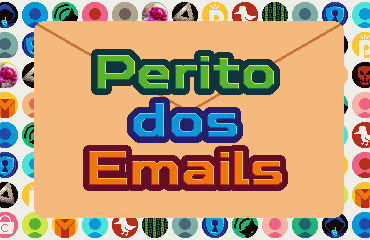
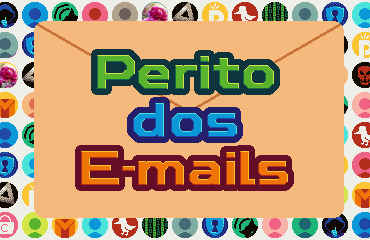
email corrigido para e-mail

Changed region(s): [[0.2973, 0.5833, 0.8027, 0.8167], [0.1784, 0.5833, 0.2676, 0.8167]]

diff --git a/src/pages/EmailGame/Scenes/EmailScene/EmailList.ts b/src/pages/EmailGame/Scenes/EmailScene/EmailList.ts
@@ -1,6 +1,6 @@
 import { MALICIOUS, SAFE, SPAM, type EmailData } from "./EmailData";
 
-// Lista de endereços de email "oficiais"
+// Lista de endereços de e-mail "oficiais"
 export const addresses = {
   grandma: "aparecida48@mail.com",
   cibernauta: "cibernauta@mail.com",
@@ -55,7 +55,7 @@ const pictures = {
 // Lista de export de todos os emails do jogo
 
 export const mailsafeSubscription: EmailData = {
-  text: `Olá SeuNome,\nEstamos confirmando sua inscrição no workshop "Boas Práticas de Segurança Digital", que ocorrerá no dia 12/12 às 14h.\nVocê pode acessar todos os materiais e informações no link do nosso site oficial:\n\nhttps://empresa-segura.com.br/workshop\n\nSe tiver qualquer dúvida, responda por este mesmo email.\n\nAtenciosamente,\nEquipe Empresa Segura`,
+  text: `Olá SeuNome,\nEstamos confirmando sua inscrição no workshop "Boas Práticas de Segurança Digital", que ocorrerá no dia 12/12 às 14h.\nVocê pode acessar todos os materiais e informações no link do nosso site oficial:\n\nhttps://empresa-segura.com.br/workshop\n\nSe tiver qualquer dúvida, responda por este mesmo e-mail.\n\nAtenciosamente,\nEquipe Empresa Segura`,
   address: "empresasegura@mail.zig",
   class: SAFE,
   name: "Emprura",
@@ -65,7 +65,7 @@ export const mailsafeSubscription: EmailData = {
 // Controls Level
 
 export const mailTutorialControls: EmailData = {
-  text: `Olá! E bem vind@ ao treinamento de identificação de emails da equipe Cibernauta.\n\nDaqui em diante, você irá aprender como identificar emails seguros, maliciosos e spam em todas as suas formas.\n\nMas antes de começar, vamos dar uma olhada nos controles que temos aqui.\n\nNa parte lateral da direita, mais ou menos por aqui -->\nTemos a barra de scroll, se clicar nela ou arrasta-la pode mover o conteúdo do email para cima e para baixo.\n\nNão ache estranho se ela às vezes não estiver presente, ela só aparece quando um email é comprido o suficiente para precisar dela.\n\nAlém dela também temos seu painel de botões, para abrir ele basta clicar no botão com a seta no canto esquerdo.\n\nNo painel você tem acesso a o que é preciso para classificar um email.\nPor enquanto só temos os botões de SEGURO (verde e redondo) e MALICIOSO (quadrado vermelho).\n\nPara prosseguir classifique esse email como SEGURO e vamos seguir em frente.`,
+  text: `Olá! E bem vind@ ao treinamento de identificação de emails da equipe Cibernauta.\n\nDaqui em diante, você irá aprender como identificar emails seguros, maliciosos e spam em todas as suas formas.\n\nMas antes de começar, vamos dar uma olhada nos controles que temos aqui.\n\nNa parte lateral da direita, mais ou menos por aqui -->\nTemos a barra de scroll, se clicar nela ou arrasta-la pode mover o conteúdo do e-mail para cima e para baixo.\n\nNão ache estranho se ela às vezes não estiver presente, ela só aparece quando um e-mail é comprido o suficiente para precisar dela.\n\nAlém dela também temos seu painel de botões, para abrir ele basta clicar no botão com a seta no canto esquerdo.\n\nNo painel você tem acesso a o que é preciso para classificar um e-mail.\nPor enquanto só temos os botões de SEGURO (verde e redondo) e MALICIOSO (quadrado vermelho).\n\nPara prosseguir classifique esse e-mail como SEGURO e vamos seguir em frente.`,
   address: addresses.cibernauta,
   class: SAFE,
   name: names.cibernauta,
@@ -75,7 +75,7 @@ export const mailTutorialControls: EmailData = {
 // Classification
 
 export const mailTutorialClass: EmailData = {
-  text: `Agora que tem uma noção básica dos controles, vamos ao que interessa, emails.\n\nNesse próximo treino vamos ver uma série de emails e é o seu trabalho identificar se eles são SEGUROs ou MALICIOSOs.\n\nMas como fazer isso? Existem várias maneiras, mas por enquanto só para aquecer, vamos começar com algo básico.\n\nEmails de pessoas e empresas desconhecidas ou até suspeitas podem ser maliciosos. Se ver um email de alguém que for desconhecido ou suspeito, marque como MALICIOSO, se for de alguém que conhece como Cibernauta ou Mail, uma das empresas que fornece serviço de email, pode marcar como SEGURO.\n\nUma última coisa, no canto de cima, junto com o botão de pause, tem o cronômetro, esse é o tempo que você terá para classificar quantos emails conseguir.\n\nQuando o cronômetro chegar a 0 (ou não houver mais emails), você irá para o placar de pontos, onde pode ver quantos erros e acertos cometeu, e sua pontuação final.\n\nEle só começa a contar quando esse email for classificado e seguirá para o próximo, então assim que estiver pronto, marque esse como SEGURO e boa sorte!`,
+  text: `Agora que tem uma noção básica dos controles, vamos ao que interessa, emails.\n\nNesse próximo treino vamos ver uma série de emails e é o seu trabalho identificar se eles são SEGUROs ou MALICIOSOs.\n\nMas como fazer isso? Existem várias maneiras, mas por enquanto só para aquecer, vamos começar com algo básico.\n\nEmails de pessoas e empresas desconhecidas ou até suspeitas podem ser maliciosos. Se ver um e-mail de alguém que for desconhecido ou suspeito, marque como MALICIOSO, se for de alguém que conhece como Cibernauta ou Mail, uma das empresas que fornece serviço de e-mail, pode marcar como SEGURO.\n\nUma última coisa, no canto de cima, junto com o botão de pause, tem o cronômetro, esse é o tempo que você terá para classificar quantos emails conseguir.\n\nQuando o cronômetro chegar a 0 (ou não houver mais emails), você irá para o placar de pontos, onde pode ver quantos erros e acertos cometeu, e sua pontuação final.\n\nEle só começa a contar quando esse e-mail for classificado e seguirá para o próximo, então assim que estiver pronto, marque esse como SEGURO e boa sorte!`,
   address: addresses.cibernauta,
   class: SAFE,
   name: names.cibernauta,
@@ -91,7 +91,7 @@ export const mailClassMal1: EmailData = {
 };
 
 export const mailClassMal2: EmailData = {
-  text: `Olá,\n\nSeu computador está DESATUALIZADO e em risco crítico.\n\nNos envie seu endereço de email e sua senha antes que seja tarde demais.`,
+  text: `Olá,\n\nSeu computador está DESATUALIZADO e em risco crítico.\n\nNos envie seu endereço de e-mail e sua senha antes que seja tarde demais.`,
   address: "hackers@mail.com",
   class: MALICIOUS,
   name: "Não é Virus",
@@ -125,7 +125,7 @@ export const mailClassSafe2: EmailData = {
 // Elements
 
 export const mailTutorialElements: EmailData = {
-  text: `Agora que passamos por esse aquecimento vamos ver a parte mais crucial do treinamento. Selecionar elementos.\n\nTodo email é composto de elementos, como a foto no canto superior esquerdo, o endereço de onde veio esse email ou até o texto que você está lendo.\n\nAgora, além de classificar os emails, você também pode SELECIONAR seus elementos.\n\nQuando estiver com seu painel aberto, seu cursor do mouse vai virar uma seta em diagonal, isso quer dizer que está no modo de seleção.\n\nNo modo de seleção, qualquer elemento do email que você clicar será selecionado como uma ANOMALIA, ou seja, algo que indica que esse email não é SEGURO. Você pode selecionar mais do que um elemento ao mesmo tempo.\n\nPara essa próxima etapa, vamos começar a partir do princípio que qualquer email oferecendo algo de GRAÇA ou pedindo que você faça algo com URGÊNCIA como realizar um pagamento ou entrar em algum link, é malicioso.\n\nSe ver algo do tipo, marque aonde no texto que isso aparece e classifique como MALICIOSO. Se o texto tiver mais frases do tipo em outros lugares não tem problema, você só precisa selecionar uma delas que já conta.\n\nElementos que forem corretamente marcados como ANOMALIAS te darão pontos extras! Mas elementos selecionados incorretamente irão reduzir sua pontuação.\n\nPronto para seguir em frente?`,
+  text: `Agora que passamos por esse aquecimento vamos ver a parte mais crucial do treinamento. Selecionar elementos.\n\nTodo e-mail é composto de elementos, como a foto no canto superior esquerdo, o endereço de onde veio esse e-mail ou até o texto que você está lendo.\n\nAgora, além de classificar os emails, você também pode SELECIONAR seus elementos.\n\nQuando estiver com seu painel aberto, seu cursor do mouse vai virar uma seta em diagonal, isso quer dizer que está no modo de seleção.\n\nNo modo de seleção, qualquer elemento do e-mail que você clicar será selecionado como uma ANOMALIA, ou seja, algo que indica que esse e-mail não é SEGURO. Você pode selecionar mais do que um elemento ao mesmo tempo.\n\nPara essa próxima etapa, vamos começar a partir do princípio que qualquer e-mail oferecendo algo de GRAÇA ou pedindo que você faça algo com URGÊNCIA como realizar um pagamento ou entrar em algum link, é malicioso.\n\nSe ver algo do tipo, marque aonde no texto que isso aparece e classifique como MALICIOSO. Se o texto tiver mais frases do tipo em outros lugares não tem problema, você só precisa selecionar uma delas que já conta.\n\nElementos que forem corretamente marcados como ANOMALIAS te darão pontos extras! Mas elementos selecionados incorretamente irão reduzir sua pontuação.\n\nPronto para seguir em frente?`,
   address: addresses.cibernauta,
   class: SAFE,
   name: names.cibernauta,
@@ -187,7 +187,7 @@ export const mailElementsSafe1: EmailData = {
 };
 
 export const mailElementsSafe2: EmailData = {
-  text: `Olá!\n\nObrigado por criar uma conta no Fritter. Estamos felizes em ter você aqui!\nPara começar a personalizar sua experiência, recomendamos visitar sua página de configurações:\n\nhttps://fritter.com/configuracoes\n\nLá você pode ajustar notificações, escolher interesses e configurar a segurança da sua conta.\n\nSe precisar de ajuda, basta responder este email ou acessar nossa Central de Suporte.\n\nBem-vindo à conversa!\nEquipe Fritter`,
+  text: `Olá!\n\nObrigado por criar uma conta no Fritter. Estamos felizes em ter você aqui!\nPara começar a personalizar sua experiência, recomendamos visitar sua página de configurações:\n\nhttps://fritter.com/configuracoes\n\nLá você pode ajustar notificações, escolher interesses e configurar a segurança da sua conta.\n\nSe precisar de ajuda, basta responder este e-mail ou acessar nossa Central de Suporte.\n\nBem-vindo à conversa!\nEquipe Fritter`,
   address: addresses.fritter,
   class: SAFE,
   name: names.fritter,
@@ -205,7 +205,7 @@ export const mailElementsSafe3: EmailData = {
 // Notepad / Adresses
 
 export const mailTutorialNotepad: EmailData = {
-  text: `Olá! Para essa próxima etapa você terá uma nova ferramenta, o caderno de informações! Pode ver que tem um botão novo no painel, ele abrirá o caderno.\n\nNeste caderno, você terá informações importantes para ajudar na sua classificação de emails, como o que veremos nesta etapa, endereços de email.\n\nUma coisa importante de saber enquanto estiver na internet, além de que há pessoas com intenções maliciosas, é que elas podem muitas vezes se passar por outras pessoas ou empresas. Uma maneira comum é pelo endereço de email.\n\nCada pessoa e empresa possui seu próprio endereço de email, como o nosso lá encima na esquerda, cibernauta@mail.com, mas como cada um pode escolher o endereço que quiser, muitas pessoas criam endereços parecidos com endereços oficiais.\n\nPor isso é importante quando receber um email de alguma pessoa ou empresa, verificar que o endereço de email é oficial e seguro.\n\nQuando estiver usando a internet, você pode pesquisar quais os endereços de email oficiais de alguma empresa, mas aqui no treinamento eles estarão no caderno.\n\nEm resumo, se ver algum endereço de email que não seja igual aos escritos no caderno, pode marcar ele como uma ANOMALIA, e classifique o email como MALICIOSO.\n\nLembre-se que o que foi ensinado nas etapas anteriores também se aplicam aqui. Agora marque esse email como SEGURO e vamos nessa!`,
+  text: `Olá! Para essa próxima etapa você terá uma nova ferramenta, o caderno de informações! Pode ver que tem um botão novo no painel, ele abrirá o caderno.\n\nNeste caderno, você terá informações importantes para ajudar na sua classificação de emails, como o que veremos nesta etapa, endereços de e-mail.\n\nUma coisa importante de saber enquanto estiver na internet, além de que há pessoas com intenções maliciosas, é que elas podem muitas vezes se passar por outras pessoas ou empresas. Uma maneira comum é pelo endereço de e-mail.\n\nCada pessoa e empresa possui seu próprio endereço de e-mail, como o nosso lá encima na esquerda, cibernauta@mail.com, mas como cada um pode escolher o endereço que quiser, muitas pessoas criam endereços parecidos com endereços oficiais.\n\nPor isso é importante quando receber um e-mail de alguma pessoa ou empresa, verificar que o endereço de e-mail é oficial e seguro.\n\nQuando estiver usando a internet, você pode pesquisar quais os endereços de e-mail oficiais de alguma empresa, mas aqui no treinamento eles estarão no caderno.\n\nEm resumo, se ver algum endereço de e-mail que não seja igual aos escritos no caderno, pode marcar ele como uma ANOMALIA, e classifique o e-mail como MALICIOSO.\n\nLembre-se que o que foi ensinado nas etapas anteriores também se aplicam aqui. Agora marque esse e-mail como SEGURO e vamos nessa!`,
   address: addresses.cibernauta,
   class: SAFE,
   name: names.cibernauta,
@@ -261,7 +261,7 @@ export const mailAddressMal5: EmailData = {
 };
 
 export const mailAddressSafe1: EmailData = {
-  text: `Olá,\n\nEstamos ajustando o sistema de notificações do Fritter para deixá-lo mais rápido e estável.\nVocê pode revisar suas preferências aqui:\n\nhttps://fritter.com/notificacoes\n\nSe algo não estiver funcionando como esperado, basta responder este email.\n\nAtenciosamente,\nEquipe Fritter`,
+  text: `Olá,\n\nEstamos ajustando o sistema de notificações do Fritter para deixá-lo mais rápido e estável.\nVocê pode revisar suas preferências aqui:\n\nhttps://fritter.com/notificacoes\n\nSe algo não estiver funcionando como esperado, basta responder este e-mail.\n\nAtenciosamente,\nEquipe Fritter`,
   address: addresses.fritter,
   class: SAFE,
   name: names.fritter,
@@ -343,7 +343,7 @@ export const mailContactSafe1: EmailData = {
 };
 
 export const mailContactSafe2: EmailData = {
-  text: `Olá!\n\nEstamos escrevendo para informar que sua solicitação recente passou para a fase final de revisão. O problema reportado realmente estava ligado a uma configuração incorreta nos nossos servidores, e já realizamos os ajustes necessários.\n\nRealize um novo login e verifique se tudo está funcionando corretamente. Se encontrar qualquer irregularidade, responda este email diretamente e nosso time dará continuidade ao atendimento.\n\nAgradecemos sua paciência durante o processo.\nAtenciosamente, Tecnus Suporte`,
+  text: `Olá!\n\nEstamos escrevendo para informar que sua solicitação recente passou para a fase final de revisão. O problema reportado realmente estava ligado a uma configuração incorreta nos nossos servidores, e já realizamos os ajustes necessários.\n\nRealize um novo login e verifique se tudo está funcionando corretamente. Se encontrar qualquer irregularidade, responda este e-mail diretamente e nosso time dará continuidade ao atendimento.\n\nAgradecemos sua paciência durante o processo.\nAtenciosamente, Tecnus Suporte`,
   address: addresses.tecnus,
   class: SAFE,
   name: names.tecnus,

diff --git a/src/pages/EmailGame/Scenes/EmailScene/EmailInterface.ts b/src/pages/EmailGame/Scenes/EmailScene/EmailInterface.ts
@@ -10,12 +10,12 @@ import EmailTextElement, { ADDRESS, NAME } from "./EmailTextElement.ts";
 // Dicionário de seleção de anomalias, para cada referência de um elemento, guarda se ele foi selecionado como anomalia
 export type AnomalySelection = Record<string, boolean>;
 
-// Gerencia a interação do jogador com um email
+// Gerencia a interação do jogador com um e-mail
 export default class EmailInterface {
-  emailData!: EmailData; // Dados do email atual
-  emailContent!: EmailContent; // Conteúdo do email atual
-  anomalies!: AnomalySelection; // Dicionário de quais elementos do email atual são anomalias
-  anomalyParagraphs!: number[]; // Parágrafos do email atual que contém anomalia
+  emailData!: EmailData; // Dados do e-mail atual
+  emailContent!: EmailContent; // Conteúdo do e-mail atual
+  anomalies!: AnomalySelection; // Dicionário de quais elementos do e-mail atual são anomalias
+  anomalyParagraphs!: number[]; // Parágrafos do e-mail atual que contém anomalia
   scrollBar: ScrollBar | null = null; // Objeto de barra de scroll
   selectedAnomalies: AnomalySelection = {
     name: false,
@@ -23,16 +23,16 @@ export default class EmailInterface {
     address: false,
     picture: false,
   }; // Anomalias selecionadas pelo usuário
-  [PICTURE]!: EmailPicture; // Elemento de foto de perfil do email
-  [ADDRESS]!: EmailTextElement; // Elemento de endereço do email
-  [NAME]!: EmailTextElement; // Elemento de nome do email
+  [PICTURE]!: EmailPicture; // Elemento de foto de perfil do e-mail
+  [ADDRESS]!: EmailTextElement; // Elemento de endereço do e-mail
+  [NAME]!: EmailTextElement; // Elemento de nome do e-mail
 
   constructor(data: EmailData) {
     this.newData(data);
   }
 
   /**
-   * Com um dado EmailData atualiza os elementos e propriedades relacionadas ao email atual
+   * Com um dado EmailData atualiza os elementos e propriedades relacionadas ao e-mail atual
    * @param data
    */
   newData(data: EmailData) {
@@ -102,7 +102,7 @@ export default class EmailInterface {
   }
 
   /**
-   * Altera estado de selecionado de um elemento de email a partir de uma dada referência
+   * Altera estado de selecionado de um elemento de e-mail a partir de uma dada referência
    * @param reference
    */
   selectAnomaly(reference: string) {
@@ -119,7 +119,7 @@ export default class EmailInterface {
   }
 
   /**
-   * Atualiza qual o parágrafo selecionado do conteúdo do email atual dado um index de parágrafo
+   * Atualiza qual o parágrafo selecionado do conteúdo do e-mail atual dado um index de parágrafo
    * @param paragraphId
    */
   selectParagraph(paragraphId: number) {
@@ -131,7 +131,7 @@ export default class EmailInterface {
   }
 
   /**
-   * Executa a função de scroll do email e da bara de scroll com um dado numero
+   * Executa a função de scroll do e-mail e da bara de scroll com um dado numero
    * @param scroll
    */
   scrollEmail(scroll: number) {
@@ -140,7 +140,7 @@ export default class EmailInterface {
   }
 
   /**
-   * Executa a função de scrollTo do email e da bara de scroll com uma dada altura
+   * Executa a função de scrollTo do e-mail e da bara de scroll com uma dada altura
    * @param height
    */
   scrollEmailTo(height: number) {
@@ -149,7 +149,7 @@ export default class EmailInterface {
   }
 
   /**
-   * Compara a seleção de anomalias com as anomalias do email atual e retorna um Evaluation a partir delas e uma dada classificação
+   * Compara a seleção de anomalias com as anomalias do e-mail atual e retorna um Evaluation a partir delas e uma dada classificação
    * @param classification
    * @returns
    */

diff --git a/src/pages/EmailGame/Scenes/EmailScene/EmailTextElement.ts b/src/pages/EmailGame/Scenes/EmailScene/EmailTextElement.ts
@@ -6,10 +6,10 @@ import { findSprite } from "../../Sprites/FindSprite";
 import type CanvasObject from "../../CanvasObject";
 import fontMaps from "../../FontMaps";
 
-export const ADDRESS = "address"; // Referência de elemento de endereço do email
-export const NAME = "name"; // Referência de elemento de nome do email
+export const ADDRESS = "address"; // Referência de elemento de endereço do e-mail
+export const NAME = "name"; // Referência de elemento de nome do e-mail
 
-// Elemento de email com conteúdo de texto, retorna a ação de SELECT e sua referência como função de click
+// Elemento de e-mail com conteúdo de texto, retorna a ação de SELECT e sua referência como função de click
 export default class EmailTextElement extends TextObject {
   anomaly: boolean = false; // Indica se o elemento é uma anomalia
   selected: boolean = false; // Indica se o elemento está selecionado como anomalia

diff --git a/src/pages/EmailGame/Scenes/EmailScene/EmailContent.ts b/src/pages/EmailGame/Scenes/EmailScene/EmailContent.ts
@@ -7,9 +7,9 @@ import Position from "../../Position";
 import type Sprite from "../../Sprites/Sprite";
 import { SELECT } from "./EmailPicture";
 
-export const CONTENT = "content"; // Referência de elemento de conteúdo do email
+export const CONTENT = "content"; // Referência de elemento de conteúdo do e-mail
 
-// Representa uma linha de texto no conteúdo do email
+// Representa uma linha de texto no conteúdo do e-mail
 export type Line = {
   words: string[]; // Palavras na linha
   width: number; // Comprimento da linha em pixels
@@ -18,7 +18,7 @@ export type Line = {
 // Representa uma série de linhas como um parágrafo
 export type Paragraph = Line[];
 
-// Objeto do conteúdo de um email
+// Objeto do conteúdo de um e-mail
 export default class EmailContent extends GameObject {
   paragraphs: Paragraph[] = []; // Lista de parágrafos do objeto
   font = "minecraftia"; // Font do objeto

diff --git a/src/pages/EmailGame/Scenes/EmailScene/EmailPicture.ts b/src/pages/EmailGame/Scenes/EmailScene/EmailPicture.ts
@@ -4,11 +4,11 @@ import { findSprite } from "../../Sprites/FindSprite";
 import type Position from "../../Position";
 import type Sprite from "../../Sprites/Sprite";
 
-export const PICTURE = "picture"; // Referência de elemento de foto de perfil do email
+export const PICTURE = "picture"; // Referência de elemento de foto de perfil do e-mail
 
 export const SELECT = "select"; // Referência da ação de selecionar anomalia
 
-// Elemento de imagem de perfil do email, retorna a ação de SELECT e sua referência como função de click
+// Elemento de imagem de perfil do e-mail, retorna a ação de SELECT e sua referência como função de click
 export default class EmailPicture extends GameObject {
   reference = PICTURE; // Referência do elemento
   anomaly: boolean; // Indica se é uma anomalia

diff --git a/src/pages/EmailGame/Scenes/EmailScene/EmailScene.ts b/src/pages/EmailGame/Scenes/EmailScene/EmailScene.ts
@@ -160,8 +160,8 @@ export default class EmailScene extends Scene {
   }
 
   /**
-   * Gera um email, usando o email inicial do nível se for o primeiro email gerado,
-   * e inicia o timer se não for o primeiro email
+   * Gera um e-mail, usando o e-mail inicial do nível se for o primeiro e-mail gerado,
+   * e inicia o timer se não for o primeiro e-mail
    * @param first
    */
   nextEmail(first: boolean = false) {
@@ -192,7 +192,7 @@ export default class EmailScene extends Scene {
   }
 
   /**
-   * Adiciona à lista de avaliações a avaliação do email e os dados do email atual
+   * Adiciona à lista de avaliações a avaliação do e-mail e os dados do e-mail atual
    * @param classification
    */
   evaluateEmail(classification: typeof SAFE | typeof MALICIOUS | typeof SPAM) {

diff --git a/src/pages/EmailGame/Scenes/ScoreScene.ts b/src/pages/EmailGame/Scenes/ScoreScene.ts
@@ -15,8 +15,8 @@ import type { Level } from "./LevelSelectionScene/Level";
 import Scene from "./Scene";
 import { LEVELSELECTION } from "./SceneReferences";
 
-const classRightPoints = 200; // Valor em pontos para cada email classificado corretamente
-const classWrongPoints = -100; // Valor em pontos para cada email classificado incorretamente
+const classRightPoints = 200; // Valor em pontos para cada e-mail classificado corretamente
+const classWrongPoints = -100; // Valor em pontos para cada e-mail classificado incorretamente
 const elementRightPoints = 50; // Valor em pontos para cada elemento selecionado corretamente
 const elementWrongPoints = -25; // Valor em pontos para cada elemento selecionado incorretamente
 

diff --git a/src/pages/EmailGame/Scenes/LevelSelectionScene/Level.ts b/src/pages/EmailGame/Scenes/LevelSelectionScene/Level.ts
@@ -9,7 +9,7 @@ export type Level = {
   secondsTimer: number; // Segundos para o limíte de tempo do nível
   reference: string; // Texto de referência do nível
   emailDataList: EmailData[]; // Lista de dados de emails do nível
-  starterEmail?: EmailData; // dados do email inicial do nível
+  starterEmail?: EmailData; // dados do e-mail inicial do nível
   buttons: ButtonReference[]; // lista de referências dos botões usados no nível
   canSelect: boolean; // Indica se a função de selecionar elementos está habilitada no nível
   notepadPages?: (Sprite | string)[]; // Lista de sprites e textos para o caderno do nível

diff --git a/src/pages/EmailGame/Scenes/EmailScene/EmailData.ts b/src/pages/EmailGame/Scenes/EmailScene/EmailData.ts
@@ -8,7 +8,7 @@ export type EmailData = {
   address: string; // Endereço de quem enviou
   name: string; // Nome de quem enviou
   picture: string; // Nome do sprite usado para a imagem de perfil
-  class: typeof SAFE | typeof MALICIOUS | typeof SPAM; // Classificação do email
+  class: typeof SAFE | typeof MALICIOUS | typeof SPAM; // Classificação do e-mail
   anomalyAddress?: boolean; // Identifica se o enderço é uma anomalia
   anomalyName?: boolean; // Identifica se o nome é uma anomalia
   anomalyPicture?: boolean; // Identifica se a imagem de perfil é uma anomalia

diff --git a/src/pages/EmailGame/Scenes/EmailScene/Notifier.ts b/src/pages/EmailGame/Scenes/EmailScene/Notifier.ts
@@ -4,7 +4,7 @@ import Timer from "../../Elements/Timer";
 import { findSprite } from "../../Sprites/FindSprite";
 import Position from "../../Position";
 
-// Objeto de notificação quando o usuário classifica um email com elementos ou classificação incorreta
+// Objeto de notificação quando o usuário classifica um e-mail com elementos ou classificação incorreta
 export class Notifier extends GameObject {
   spriteClass = findSprite("notif_class"); // Sprite para classificação incorreta
   spriteElement = findSprite("notif_element"); // Sprite para elemento incorreto

diff --git a/src/pages/EmailGame/Scenes/EmailScene/Buttons.ts b/src/pages/EmailGame/Scenes/EmailScene/Buttons.ts
@@ -3,7 +3,7 @@ import Position from "../../Position";
 import { MALICIOUS, SAFE, SPAM } from "./EmailData";
 import { NOTEPAD } from "./Notepad";
 
-export const CLASSEMAIL = "classEmail"; // Referência de ação de classificar um email
+export const CLASSEMAIL = "classEmail"; // Referência de ação de classificar um e-mail
 export const OPENNOTEPAD = "openNotepad"; // Referência de ação de abrir o caderno
 
 // Referências dos tipos de botões

diff --git a/src/pages/EmailGame/CanvasObject.ts b/src/pages/EmailGame/CanvasObject.ts
@@ -411,7 +411,7 @@ export default class CanvasObject {
   }
 
   /**
-   * Renderiza todos os parágrafos de um dado conteúdo de email
+   * Renderiza todos os parágrafos de um dado conteúdo de e-mail
    * @param paragraphs Lista de parágrafos a serem renderizados
    * @param font Fonte utilizada
    * @param fontSprite Sprite da fonte utilizada
